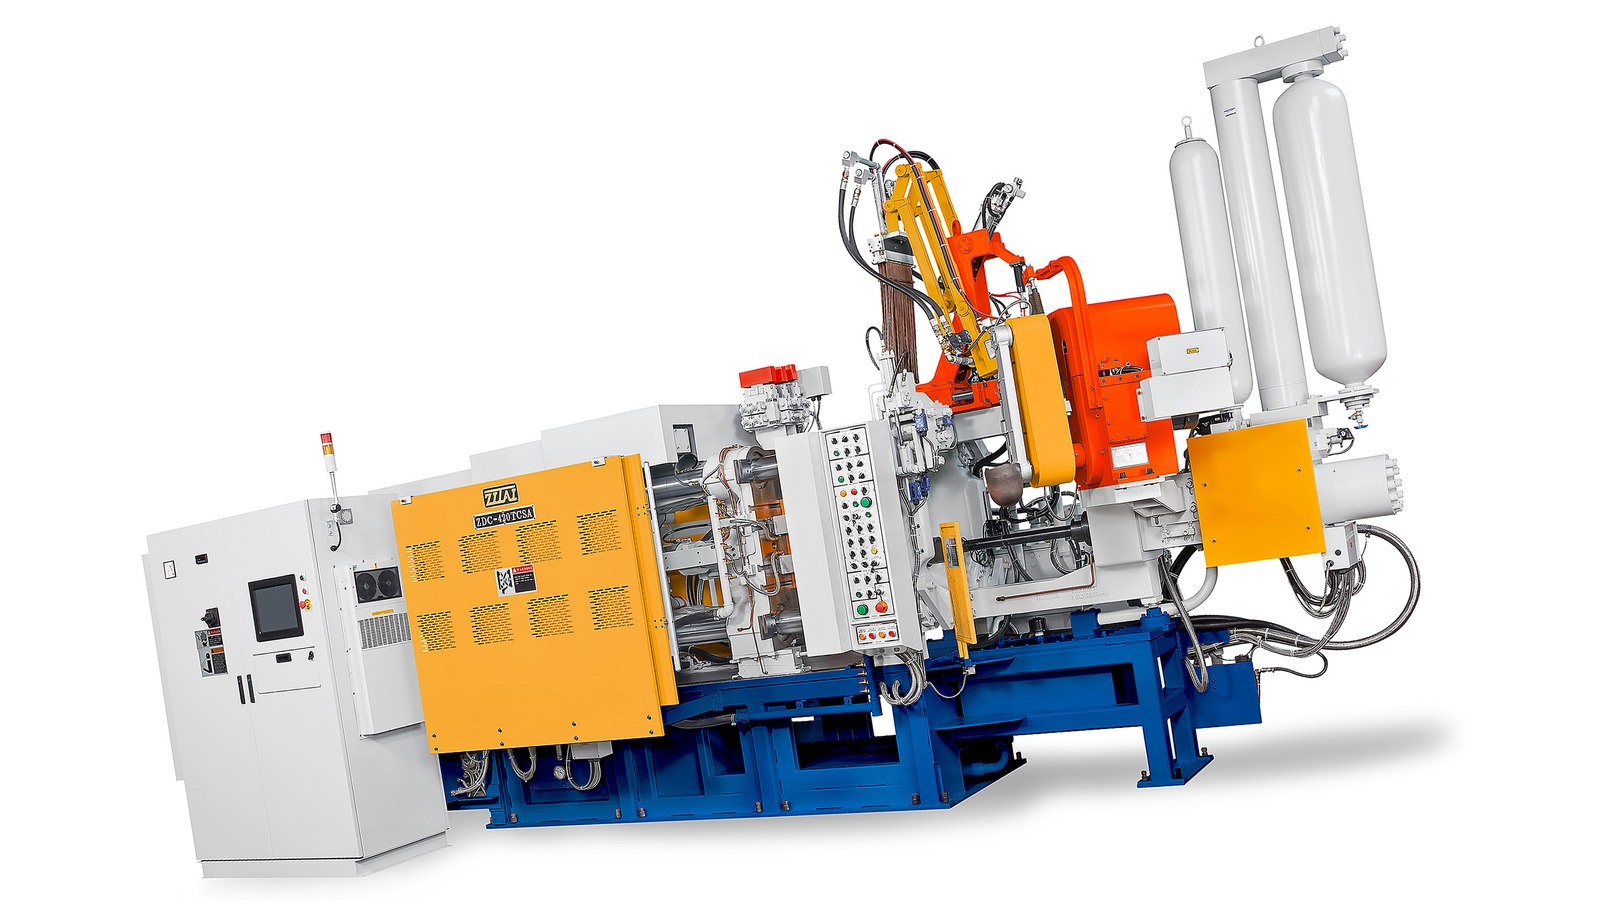
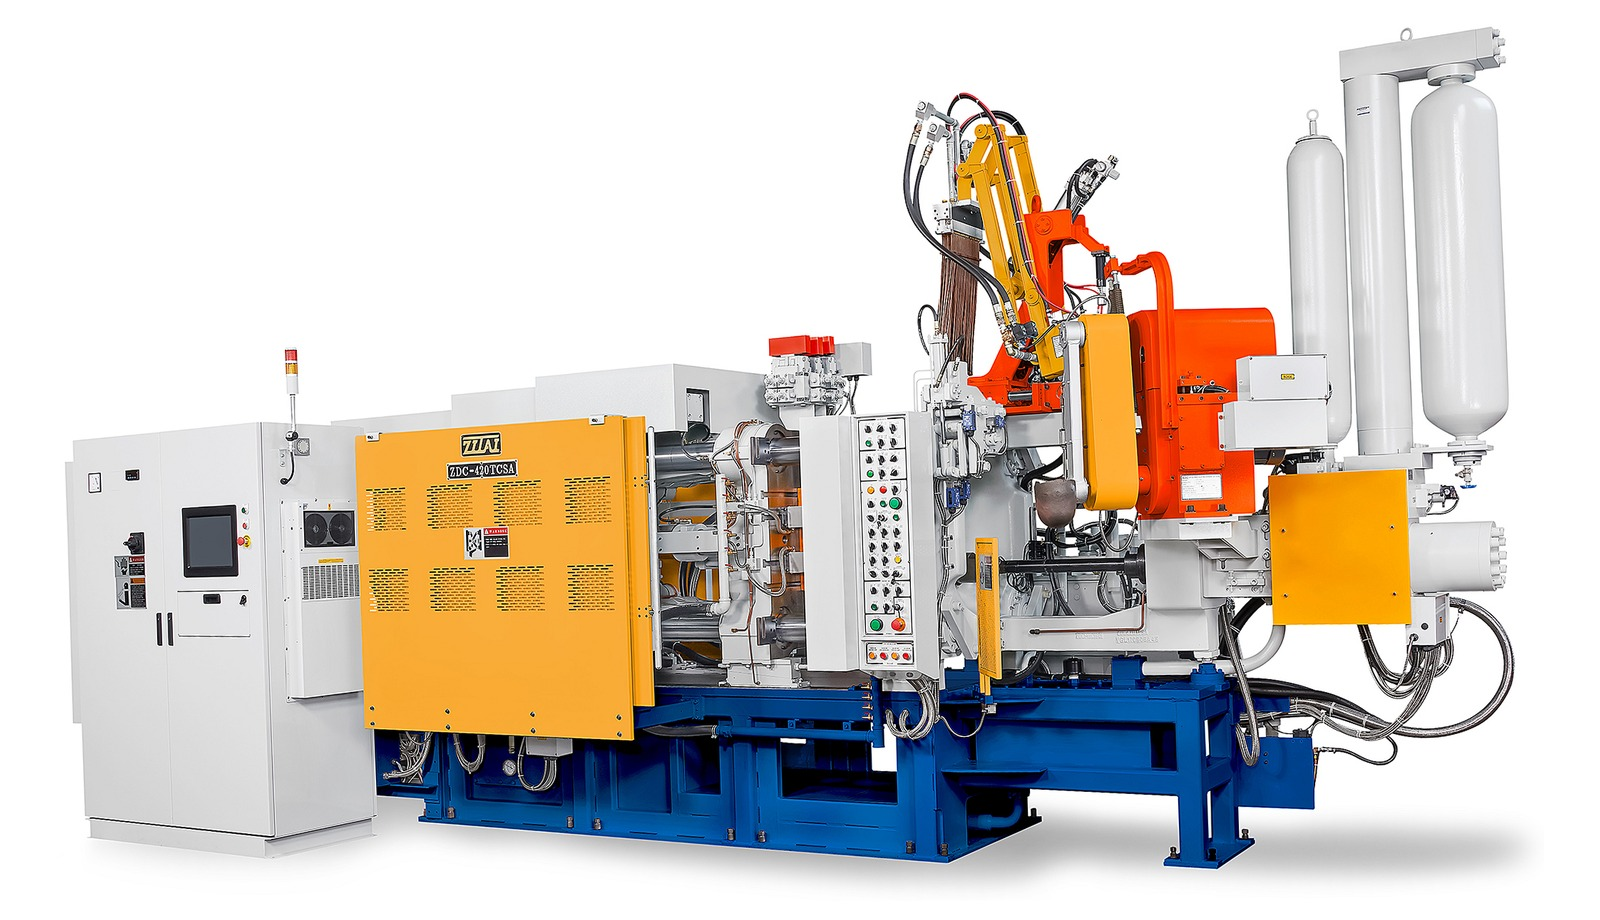
Correct ZDC-420 over-rotation; apply subtle level only.

diff --git a/index.html b/index.html
@@ -140,6 +140,6 @@
     </div>
   </aside>
 
-  <script type="module" src="./js/lobby.js?v=hall250720c"></script>
+  <script type="module" src="./js/lobby.js?v=hall250720d"></script>
 </body>
 </html>

diff --git a/js/lobby.js b/js/lobby.js
@@ -15,7 +15,7 @@ import {
   buildMachineMarkers,
 } from './machine-panel.js?v=hall250716a';
 
-const MEDIA_VERSION = 'hall250720c';
+const MEDIA_VERSION = 'hall250720d';
 // 媒體快取版本：更換背景圖或縮圖後調高此值即可強制瀏覽器重新載入
 
 function mediaUrl(folder, file) {